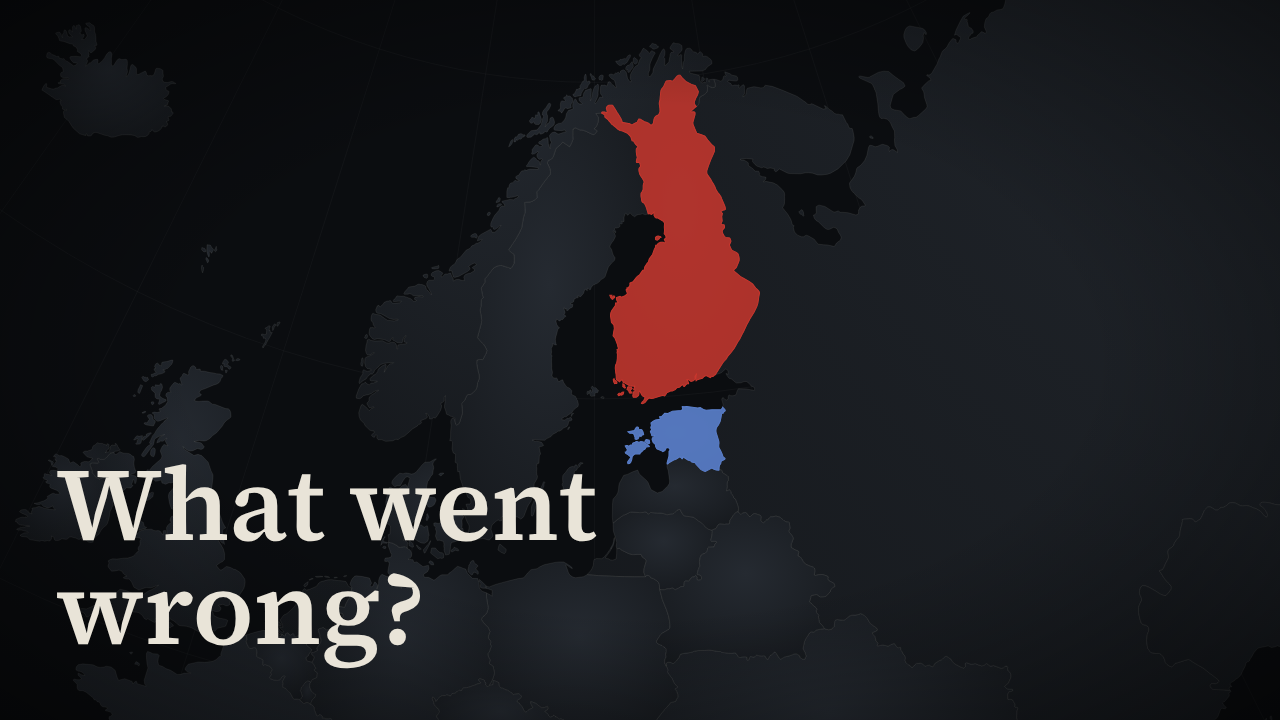
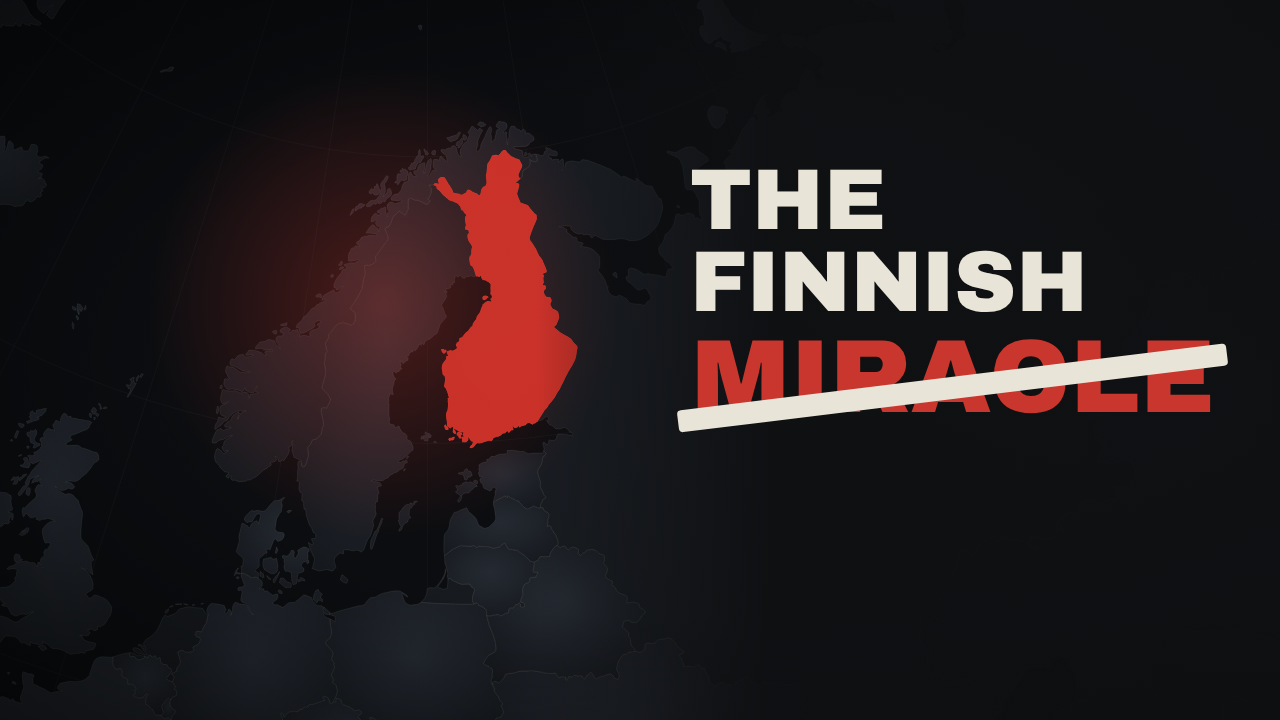
Thumbnails v2 (crash / struck miracle / overtaken) and title options with pairings
Claude-Session: https://claude.ai/code/session_01D9RW6CaN4dZF5eXj5jk5tj

Changed region(s): [[0.0, 0.0917, 0.9688, 0.9472], [0.5625, 0.7639, 0.625, 0.8556]]

diff --git a/episodes/01-finland/remotion/Thumbnails.tsx b/episodes/01-finland/remotion/Thumbnails.tsx
@@ -1,61 +1,87 @@
 import React from 'react';
 import {AbsoluteFill} from 'remotion';
-import {Paper, LineChart, WorldMap, ISO} from '../../../engine/components';
+import {Paper, WorldMap, ISO} from '../../../engine/components';
 import {color, font, num} from '../../../engine/theme';
 import {scores} from './data.gen';
 
-// Thumbnails are 1280×720 stills: one strong figure + at most five words (CLAUDE.md §9).
+// Thumbnails: 1280×720, one strong figure + at most five words, readable at phone size (~170 px wide).
+// Typefaces follow the channel rules: DM Serif Display for numbers, Archivo 900 for words.
 const FIN = scores.FIN.math, EST = scores.EST.math;
+const YRS = [2006, 2009, 2012, 2015, 2018, 2022, 2025] as const;
 
-/** Paper: Finland falls, Estonia passes it. "The Finnish Miracle" with Miracle struck. */
+const Flag: React.FC<{x: number; y: number; w?: number}> = ({x, y, w = 96}) => (
+  <svg style={{position: 'absolute', left: x, top: y}} width={w} height={w * 11 / 18} viewBox="0 0 18 11">
+    <rect width={18} height={11} fill="#fff" stroke="rgba(0,0,0,0.25)" strokeWidth={0.3} />
+    <rect x={5} width={3} height={11} fill="#002F6C" />
+    <rect y={4} width={18} height={3} fill="#002F6C" />
+  </svg>
+);
+
+const path = (ys: readonly number[], vals: Record<number, number>, x0: number, x1: number, y0: number, y1: number, lo: number, hi: number) =>
+  ys.map((y, i) => {
+    const px = x0 + ((y - ys[0]) / (ys[ys.length - 1] - ys[0])) * (x1 - x0);
+    const py = y0 + ((hi - vals[y]) / (hi - lo)) * (y1 - y0);
+    return `${i ? 'L' : 'M'}${px.toFixed(1)},${py.toFixed(1)}`;
+  }).join(' ');
+
+/** 1 — "The crash": a thick line slides, then dives off the chart. Only two numbers. */
 export const Thumb1: React.FC = () => {
-  const fy = [2006, 2009, 2012, 2015, 2018, 2022, 2025] as const;
+  const d = path(YRS, FIN, 150, 800, 200, 470, 469, 548);
   return (
-    <Paper grid={36}>
-      <LineChart x={110} y={300} w={1000} h={330} xDomain={[2005.5, 2025.5]} yDomain={[462, 552]} xTicks={[]} yTicks={[]} appear={-10}
-        series={[
-          {id: 'e', col: color.indigo, width: 12, points: fy.map((y) => ({x: y, y: EST[y], at: -5}))},
-          {id: 'f', col: color.vermilion, width: 14, points: fy.map((y) => ({x: y, y: FIN[y], at: -5}))},
-        ]} />
-      <div style={{position: 'absolute', left: 64, top: 70, fontFamily: font.serif, fontWeight: 600, fontSize: 96, lineHeight: 1.02, color: color.ink}}>
-        The Finnish<br />
-        <span style={{position: 'relative'}}>Miracle
-          <span style={{position: 'absolute', left: -8, right: -8, top: '52%', height: 12, background: color.vermilion, transform: 'rotate(-4deg)'}} />
-        </span>
-      </div>
+    <Paper grid={40}>
+      <AbsoluteFill style={{background: 'radial-gradient(ellipse at 72% 72%, rgba(200,54,45,0.18) 0%, rgba(200,54,45,0) 50%)'}} />
+      <svg width={1280} height={720} style={{position: 'absolute', left: 0, top: 0}}>
+        <path d={d} fill="none" stroke={color.vermilion} strokeWidth={30} strokeLinecap="round" strokeLinejoin="round" />
+        <path d="M800,470 L915,630" stroke={color.vermilion} strokeWidth={30} strokeLinecap="round" />
+        <path d="M840,622 L922,640 L930,556" fill="none" stroke={color.vermilion} strokeWidth={30} strokeLinecap="round" strokeLinejoin="round" />
+        <circle cx={150} cy={200} r={26} fill={color.paper} stroke={color.ink} strokeWidth={12} />
+      </svg>
+      <div style={{position: 'absolute', left: 60, top: 24, fontFamily: font.serif, fontSize: 150, lineHeight: 1, color: color.ink, ...num}}>548</div>
+      <Flag x={340} y={68} w={110} />
+      <div style={{position: 'absolute', left: 965, top: 470, fontFamily: font.serif, fontSize: 190, lineHeight: 1, color: color.vermilion, ...num}}>469</div>
     </Paper>
   );
 };
 
-/** Dark Nordic map: Finland sinks in vermilion, Estonia lit in indigo. */
+/** 2 — "Miracle?": Finland glows on a dark map, the word MIRACLE is struck out. */
 export const Thumb2: React.FC = () => (
-  <AbsoluteFill>
-    <div style={{position: 'absolute', width: 1920, height: 1080, transform: 'scale(0.6667)', transformOrigin: 'top left'}}>
-      <WorldMap kind="nordic" keys={[{t: 0, lon: 23, lat: 61.2, k: 1.05}]}
-        highlights={[{id: ISO.FIN, col: color.vermilion, at: -5, opacity: 0.85}, {id: ISO.EST, col: color.indigoOnNight, at: -5, opacity: 0.9}]} />
+  <AbsoluteFill style={{backgroundColor: color.night}}>
+    <div style={{position: 'absolute', width: 1920, height: 1080, transform: 'scale(0.6667)', transformOrigin: 'top left', filter: 'saturate(1.1)'}}>
+      <WorldMap kind="nordic" keys={[{t: 0, lon: 36, lat: 62, k: 0.95}]}
+        highlights={[{id: ISO.FIN, col: color.vermilion, at: -5, opacity: 0.95}]} />
     </div>
-    <div style={{position: 'absolute', left: 56, bottom: 60, fontFamily: font.serif, fontWeight: 600, fontSize: 104, color: color.nightText, lineHeight: 1}}>
-      What went<br />wrong?
+    <AbsoluteFill style={{background: 'radial-gradient(circle at 30% 42%, rgba(200,54,45,0.35) 0%, rgba(200,54,45,0) 24%)'}} />
+    <AbsoluteFill style={{background: 'linear-gradient(90deg, rgba(14,15,17,0) 42%, rgba(14,15,17,0.92) 60%)'}} />
+    <div style={{position: 'absolute', left: 690, top: 160, fontFamily: font.sans, fontWeight: 900, lineHeight: 0.95, color: color.nightText}}>
+      <div style={{fontSize: 86}}>THE</div>
+      <div style={{fontSize: 86}}>FINNISH</div>
+      <div style={{position: 'relative', fontSize: 104, color: color.vermilion, marginTop: 6, display: 'inline-block'}}>
+        MIRACLE
+        <div style={{position: 'absolute', left: -14, right: -14, top: '48%', height: 22, background: color.nightText, transform: 'rotate(-7deg)', borderRadius: 4}} />
+      </div>
     </div>
   </AbsoluteFill>
 );
 
-/** Big number with a thin down arrow and a small flag. */
-export const Thumb3: React.FC = () => (
-  <Paper grid={36}>
-    <div style={{position: 'absolute', left: 40, width: 1080, top: 210, textAlign: 'center', fontFamily: font.serif, fontWeight: 600, fontSize: 190, color: color.ink, ...num}}>
-      548 <span style={{color: color.inkSoft}}>→</span> <span style={{color: color.vermilion}}>469</span>
-    </div>
-    <svg style={{position: 'absolute', left: 1150, top: 90}} width={80} height={560}>
-      <line x1={40} y1={10} x2={40} y2={530} stroke={color.vermilion} strokeWidth={6} />
-      <polyline points="16,500 40,540 64,500" fill="none" stroke={color.vermilion} strokeWidth={6} />
-    </svg>
-    {/* Finnish flag, small */}
-    <svg style={{position: 'absolute', left: 90, top: 560}} width={110} height={67} viewBox="0 0 18 11">
-      <rect width={18} height={11} fill="#fff" stroke="rgba(0,0,0,0.15)" strokeWidth={0.2} />
-      <rect x={5} width={3} height={11} fill="#002F6C" />
-      <rect y={4} width={18} height={3} fill="#002F6C" />
-    </svg>
-    <div style={{position: 'absolute', left: 230, top: 572, fontFamily: font.sans, fontSize: 36, fontWeight: 600, color: color.inkSoft}}>PISA maths</div>
-  </Paper>
-);
+/** 3 — "Overtaken.": Estonia holds, Finland dives through it. One word. */
+export const Thumb3: React.FC = () => {
+  const lo = 460, hi = 552;
+  const fin = path(YRS, FIN, 110, 1060, 250, 640, lo, hi);
+  const est = path(YRS, EST, 110, 1060, 250, 640, lo, hi);
+  const cy = 250 + ((hi - 520) / (hi - lo)) * 390;
+  const cx = 110 + ((2012 - 2006) / 19) * 950;
+  return (
+    <Paper grid={40}>
+      <svg width={1280} height={720} style={{position: 'absolute', left: 0, top: 0}}>
+        <path d={est} fill="none" stroke={color.indigo} strokeWidth={24} strokeLinecap="round" strokeLinejoin="round" />
+        <path d={fin} fill="none" stroke={color.vermilion} strokeWidth={28} strokeLinecap="round" strokeLinejoin="round" />
+        <circle cx={cx} cy={cy} r={62} fill="none" stroke={color.ink} strokeWidth={9} />
+      </svg>
+      <div style={{position: 'absolute', left: 60, top: 26, fontFamily: font.sans, fontWeight: 900, fontSize: 150, lineHeight: 1, color: color.ink, letterSpacing: '-0.02em'}}>
+        Overtaken.
+      </div>
+      <div style={{position: 'absolute', left: 1080, top: 300, fontFamily: font.sans, fontWeight: 900, fontSize: 52, color: color.indigo}}>EST</div>
+      <div style={{position: 'absolute', left: 1080, top: 600, fontFamily: font.sans, fontWeight: 900, fontSize: 52, color: color.vermilion}}>FIN</div>
+    </Paper>
+  );
+};

diff --git a/episodes/01-finland/out/youtube.md b/episodes/01-finland/out/youtube.md
@@ -1,16 +1,23 @@
 # YouTube metadata — Episode 01
 
-## Title options (≤ 60 characters)
-1. The World Copied Finland's Schools. Then Finland Fell Apart. *(59)*
-2. What Happened to the World's Best Education System? *(51)*
-3. Finland Was Supposed to Be the Future of Education *(50)*
+## Titles and thumbnails (v2)
 
-Recommended: **1** (thumbnail 1 or 3).
+A title and its thumbnail should not repeat each other: the thumbnail shows *what happened*, the title opens *why*.
 
-## Thumbnails
-- `thumb1.png`: "The Finnish Miracle" with *Miracle* struck through; Finland (vermilion) falls below Estonia (indigo). Real PISA maths data, 2006–2025.
-- `thumb2.png`: dark Nordic map, Finland in vermilion, Estonia in indigo. "What went wrong?"
-- `thumb3.png`: "548 → 469", thin downward arrow, small Finnish flag.
+| # | Title (characters) | Pairs with | Why it pulls |
+|---|---|---|---|
+| **1 (recommended)** | Everyone Copied Finland. They Copied the Wrong Part. (51) | `thumb1.png` (crash 548 → 469) | The thumbnail shows the crash; the title says the cause was "the wrong part" → curiosity gap: *which part?* Answered in Act 3 / Resolution |
+| 2 | The World Copied Finland's Schools. Then Finland Fell Apart. (60) | `thumb2.png` (struck-out MIRACLE) | Twist structure (rise → fall); reflects the brief's original title |
+| 3 | Finland Had the Best Schools on Earth. What Happened? (52) | `thumb2.png` | Plain question, broad reach |
+| 4 | How Estonia Overtook Finland's 'Perfect' Schools (48) | `thumb3.png` (Overtaken.) | Neighbour rivalry and a specific claim; delivered by the Act 2 original analysis |
+| 5 | Finland's Test Scores Have Fallen Every Round Since 2006 (56) | `thumb1.png` | Hard-fact title for searchers |
+
+**Suggested YouTube "Test & compare"**: title 1 fixed; test thumbnails 1 / 2 / 3.
+
+Thumbnails (1280×720, checked at phone size ~170 px wide):
+- `thumb1.png`: a thick line diving from 548 (with a Finnish flag) to 469 with a downward arrow. Numbers only.
+- `thumb2.png`: Finland glowing red on a dark map; "THE FINNISH MIRACLE" with MIRACLE struck out.
+- `thumb3.png`: Finland's line diving through Estonia's, the crossing circled; one word: "Overtaken."
 
 ## Description
 
